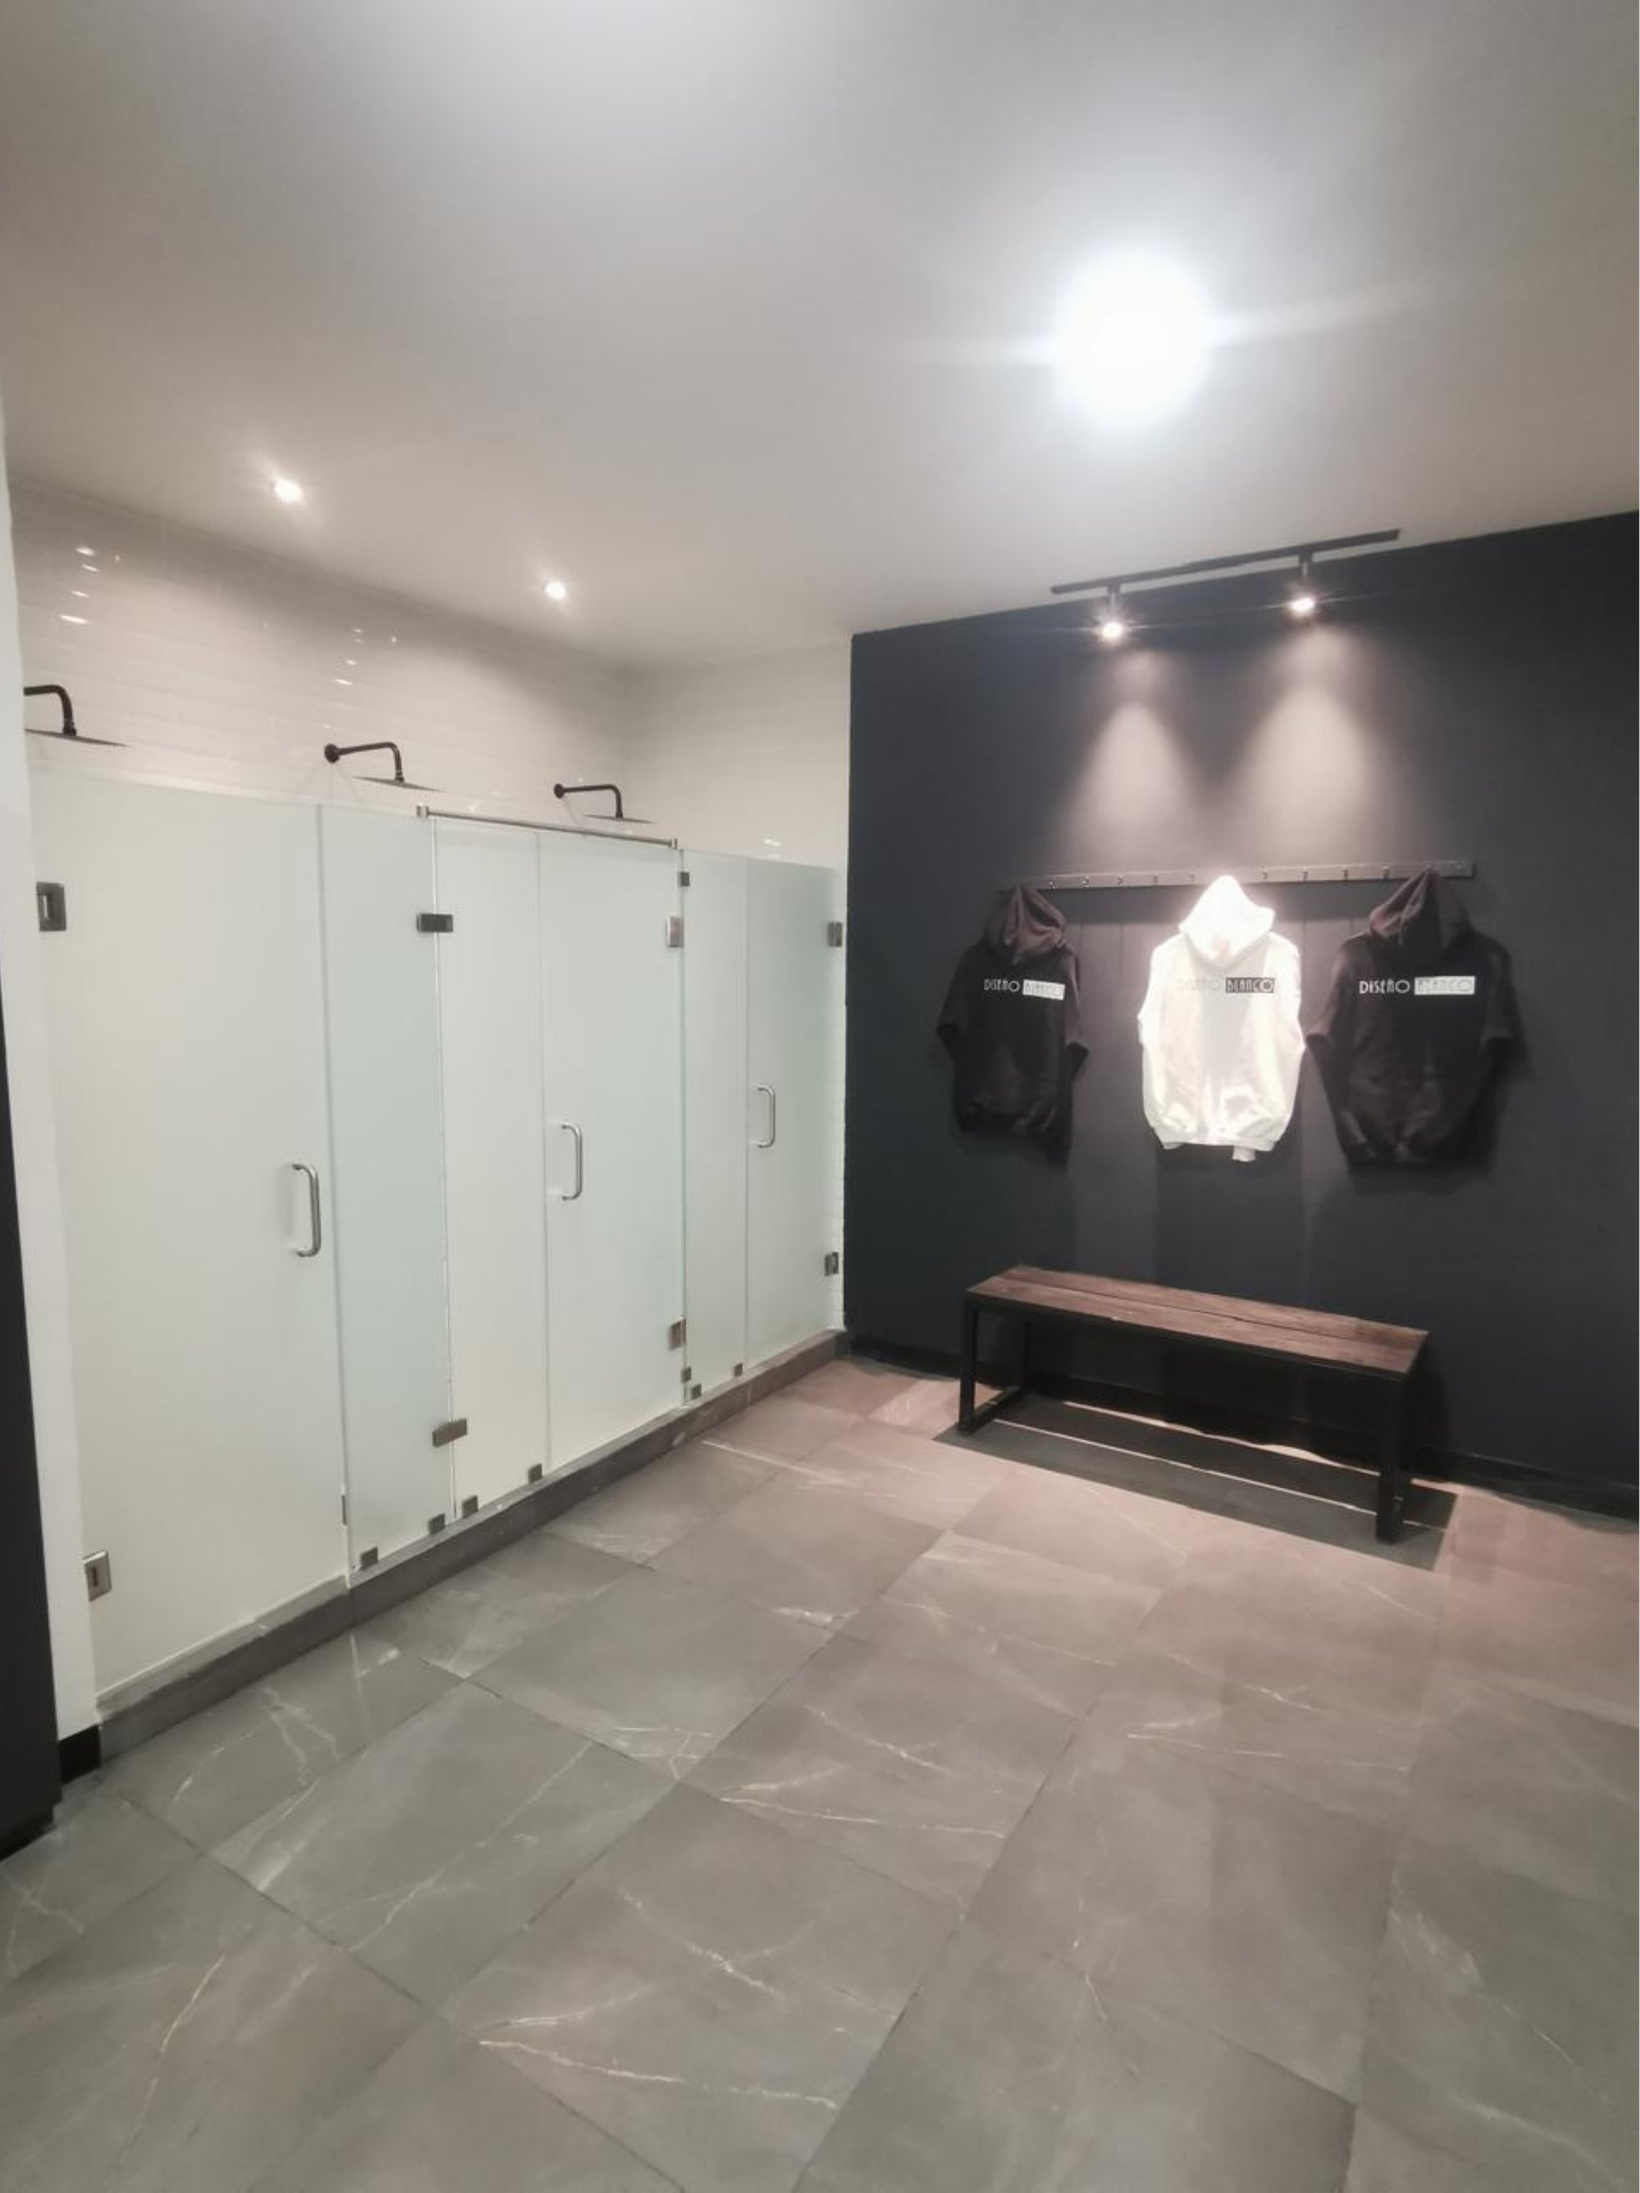
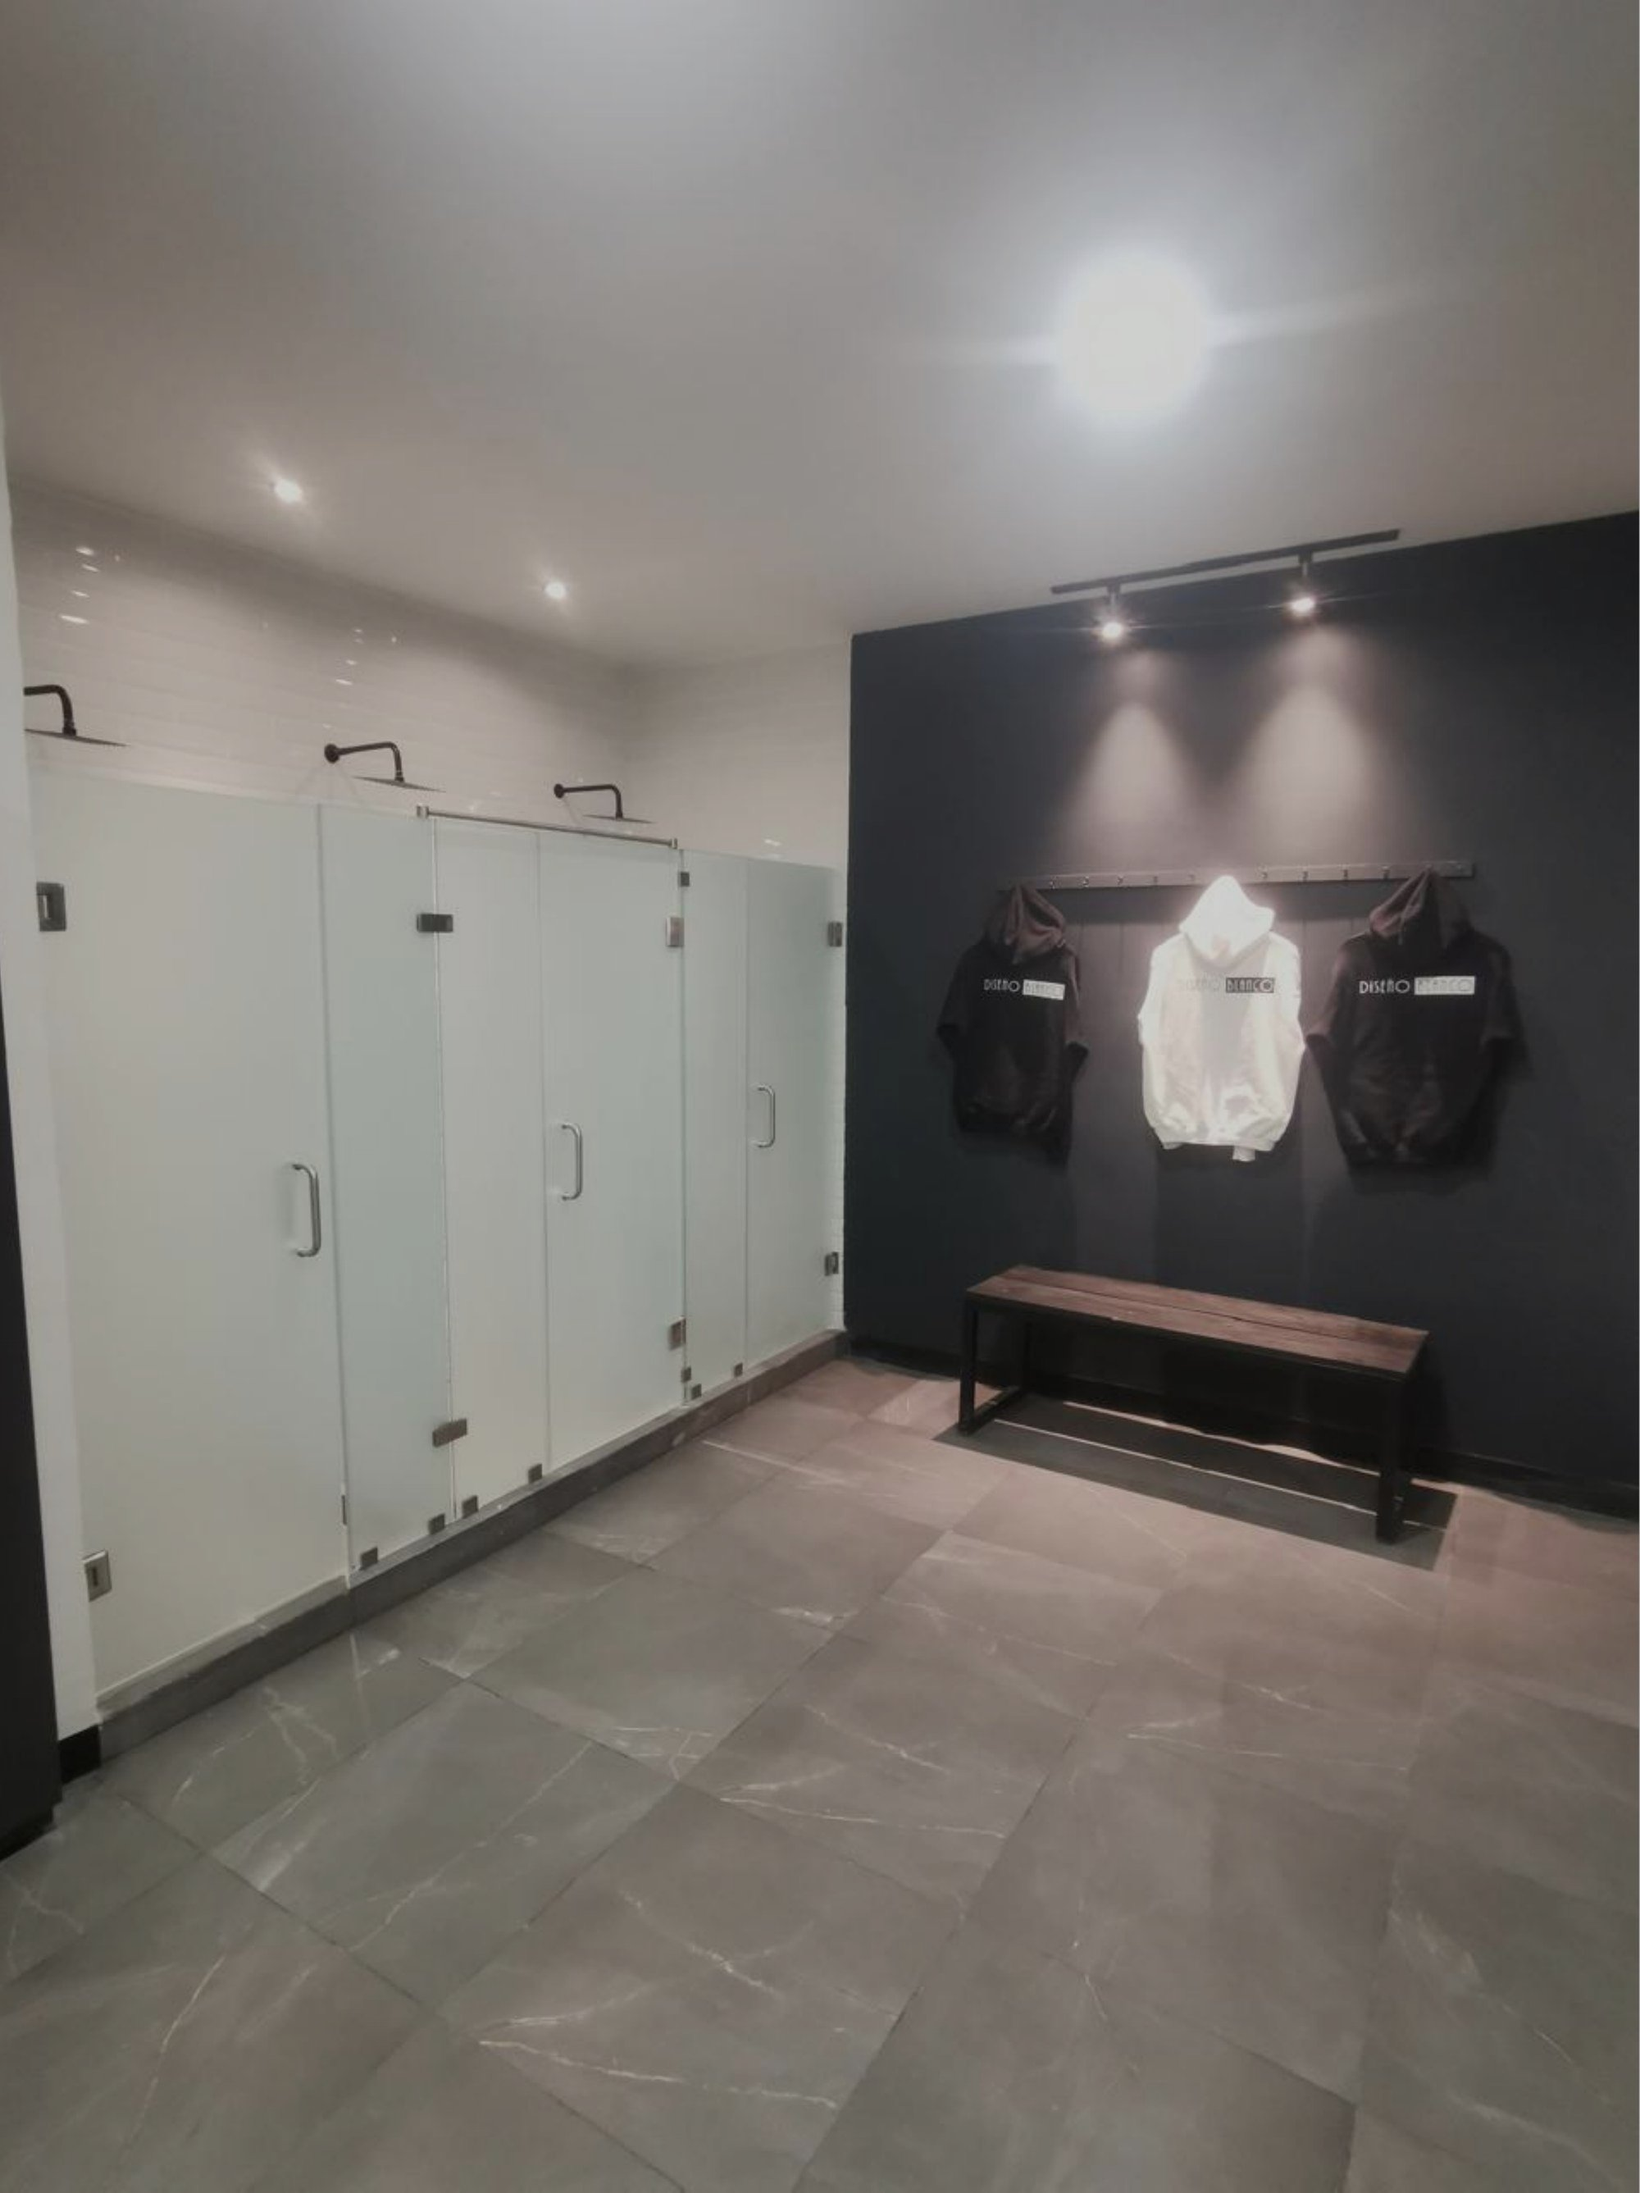
Reduce brightness of vestidor photo

diff --git a/index.html b/index.html
@@ -4,9 +4,9 @@
   <meta charset="UTF-8" />
   <meta name="viewport" content="width=device-width, initial-scale=1" />
   <title>Diseño Blanco</title>
-  <link rel="icon" type="image/svg+xml" href="assets/images/brand/isotipo-negro.svg?v=24" />
+  <link rel="icon" type="image/svg+xml" href="assets/images/brand/isotipo-negro.svg?v=25" />
   <meta name="description" content="Estudio de arquitectura enfocado en proyectos residenciales, comerciales e interiorismo." />
-  <link rel="stylesheet" href="css/styles.css?v=24" />
+  <link rel="stylesheet" href="css/styles.css?v=25" />
 </head>
 <body>
   <a class="skip-link" href="#main">Saltar al contenido</a>
@@ -17,9 +17,9 @@
     <div class="header-inner">
       <a class="brand" href="#inicio">
         <span class="brand-badge" aria-hidden="true">
-          <img src="assets/images/brand/isotipo-blanco.svg?v=24" alt="" />
+          <img src="assets/images/brand/isotipo-blanco.svg?v=25" alt="" />
         </span>
-        <img class="brand-logo" src="assets/images/brand/logotipo-blanco.svg?v=24" alt="Diseño Blanco Arquitectura" />
+        <img class="brand-logo" src="assets/images/brand/logotipo-blanco.svg?v=25" alt="Diseño Blanco Arquitectura" />
       </a>
 
       <nav class="site-nav" aria-label="Principal">
@@ -43,7 +43,7 @@
       <div class="hero-inner">
         <div class="hero-copy reveal">
           <div class="hero-brandmark">
-            <img class="hero-isotipo" src="assets/images/brand/isotipo-blanco.svg?v=24" alt="" />
+            <img class="hero-isotipo" src="assets/images/brand/isotipo-blanco.svg?v=25" alt="" />
             <p class="hero-philosophy">Diseño Blanco representa una evolución y un compromiso renovado con la excelencia en la arquitectura. Más que un símbolo, es la síntesis visual de la esencia de la empresa: simplicidad, elegancia y visión contemporánea. Cada línea y espacio son un reflejo de la capacidad de la empresa para transformar ideas en formas tangibles, creando espacios donde la estética y la funcionalidad se encuentran en perfecta armonía. Esta nueva identidad no solo marca una nueva etapa para la empresa, sino que también se convierte en un emblema de la pasión por el diseño que guía cada proyecto, buscando siempre trascender lo ordinario y dejar una huella duradera en el mundo de la arquitectura.</p>
           </div>
 
@@ -98,7 +98,7 @@
     </section>
 
     <section class="contact-band" id="contacto">
-      <img class="contact-watermark" src="assets/images/brand/isotipo-negro.svg?v=24" alt="" aria-hidden="true" />
+      <img class="contact-watermark" src="assets/images/brand/isotipo-negro.svg?v=25" alt="" aria-hidden="true" />
       <div class="contact-inner reveal">
         <div class="contact-copy">
           <p class="eyebrow">Contacto</p>
@@ -136,7 +136,7 @@
     </figure>
   </div>
 
-  <script src="js/data.js?v=24" defer></script>
-  <script src="js/main.js?v=24" defer></script>
+  <script src="js/data.js?v=25" defer></script>
+  <script src="js/main.js?v=25" defer></script>
 </body>
 </html>
